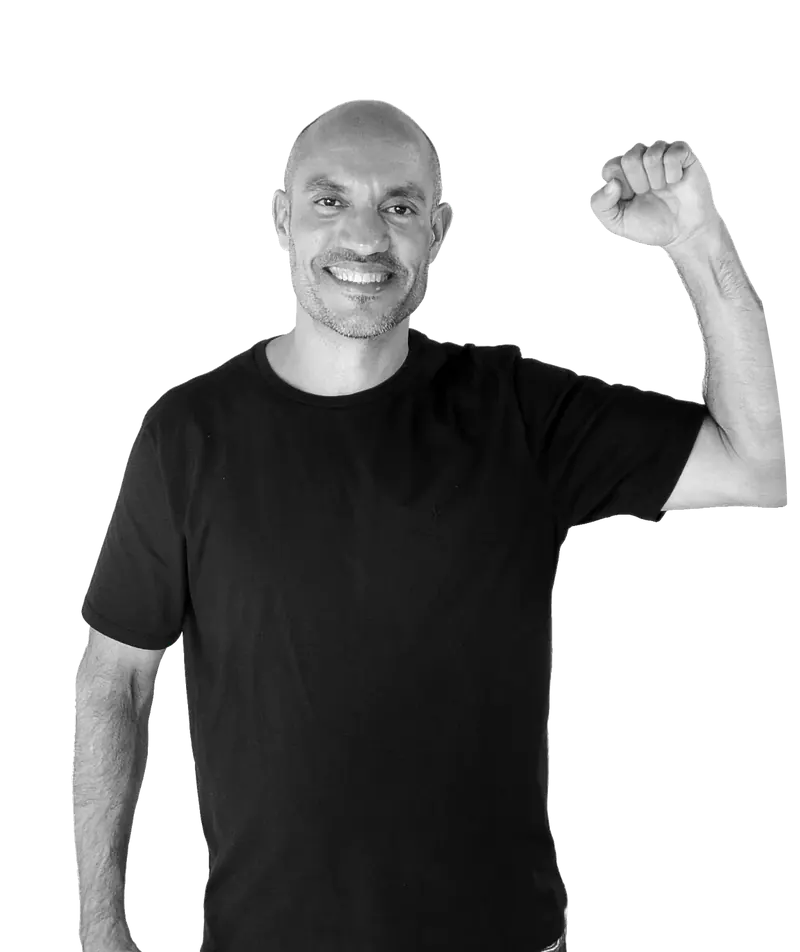
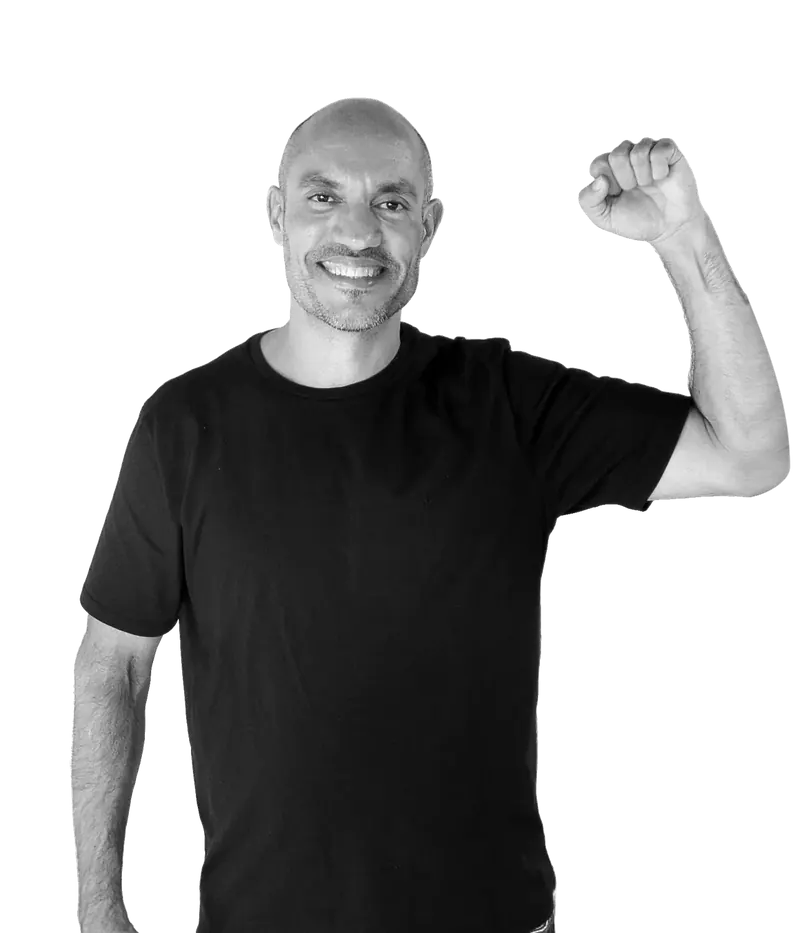
Refaz o cotovelo com silhueta curva em vez de borda reta
A correção anterior estava errada: eu empurrei a borda 40 px para fora
mas mantive a silhueta reta, então o antebraço continuava lendo como
corte. O usuário apontou três vezes e estava certo.

Localizada a foto original da sessão (IMG_4268.jpg, 1536x2048, lote do
Drive de 18/09): o braço já sai do quadro na câmera — os pixels da
última coluna entre y=560 e y=1040 são tom de pele, não fundo. Nenhuma
outra foto do lote tem essa pose. Não há como recortar de novo.

Reconstrução com forma anatômica: contorno sobe em seno do fim do
antebraço até o ápice do cotovelo em y=750, avança 70 px e desce
arredondando até reencontrar a borda inferior existente. Pele esticada
0,55, queda de luz de 22% na curvatura, 0,6 px de suavização só na
costura. Canvas 1200x1500 -> 1286x1500.

Conjunto de imagens 3% menor que o original do Codex (216.092 B ->
208.706 B). Altura intrínseca ajustada para 933.

diff --git a/versao-2/index.html b/versao-2/index.html
@@ -67,7 +67,7 @@
     <div class="hero__sol" aria-hidden="true"></div>
     <div class="hero__orbita" aria-hidden="true"><i></i></div>
     <div class="hero__reticula" aria-hidden="true"></div>
-    <picture class="hero__img"><source media="(max-width: 1023px)" type="image/webp" srcset="../assets/img/hero-mobile-rec-480.webp 480w, ../assets/img/hero-mobile-rec-800.webp 800w, ../assets/img/hero-mobile-rec-1200.webp 1200w" sizes="100vw"><source type="image/webp" srcset="../assets/img/hero-rec-480.webp 480w, ../assets/img/hero-rec-800.webp 800w, ../assets/img/hero-rec-1200.webp 1200w" sizes="(max-width: 1023px) 100vw, 50vw"><img src="../assets/img/hero-rec-800.webp" alt="Fernando Viana sorri e ergue o punho fechado, de camiseta preta." width="800" height="952" fetchpriority="high" decoding="async"></picture>
+    <picture class="hero__img"><source media="(max-width: 1023px)" type="image/webp" srcset="../assets/img/hero-mobile-rec-480.webp 480w, ../assets/img/hero-mobile-rec-800.webp 800w, ../assets/img/hero-mobile-rec-1200.webp 1200w" sizes="100vw"><source type="image/webp" srcset="../assets/img/hero-rec-480.webp 480w, ../assets/img/hero-rec-800.webp 800w, ../assets/img/hero-rec-1200.webp 1200w" sizes="(max-width: 1023px) 100vw, 50vw"><img src="../assets/img/hero-rec-800.webp" alt="Fernando Viana sorri e ergue o punho fechado, de camiseta preta." width="800" height="933" fetchpriority="high" decoding="async"></picture>
     <div class="hero__voto"><span class="hero__voto-numero">5000</span><span class="hero__voto-legenda">PSOL / Goiás</span></div>
   </div>
   <div class="hero__cunha" aria-hidden="true"></div>

diff --git a/index.html b/index.html
@@ -126,7 +126,7 @@ h1 .ponto{color:var(--vermelho)}
         <span class="cartao__tag">Versão 2</span>
         <picture>
           <source type="image/webp" srcset="assets/img/hero-rec-480.webp 480w, assets/img/hero-rec-800.webp 800w, assets/img/hero-rec-1200.webp 1200w" sizes="(max-width:700px) 100vw, 50vw">
-          <img src="assets/img/hero-rec-800.webp" alt="Prévia da versão 2: Fernando Viana recortado sobre composição gráfica." width="800" height="952" loading="lazy" decoding="async">
+          <img src="assets/img/hero-rec-800.webp" alt="Prévia da versão 2: Fernando Viana recortado sobre composição gráfica." width="800" height="933" loading="lazy" decoding="async">
         </picture>
       </figure>
       <div class="cartao__corpo">
